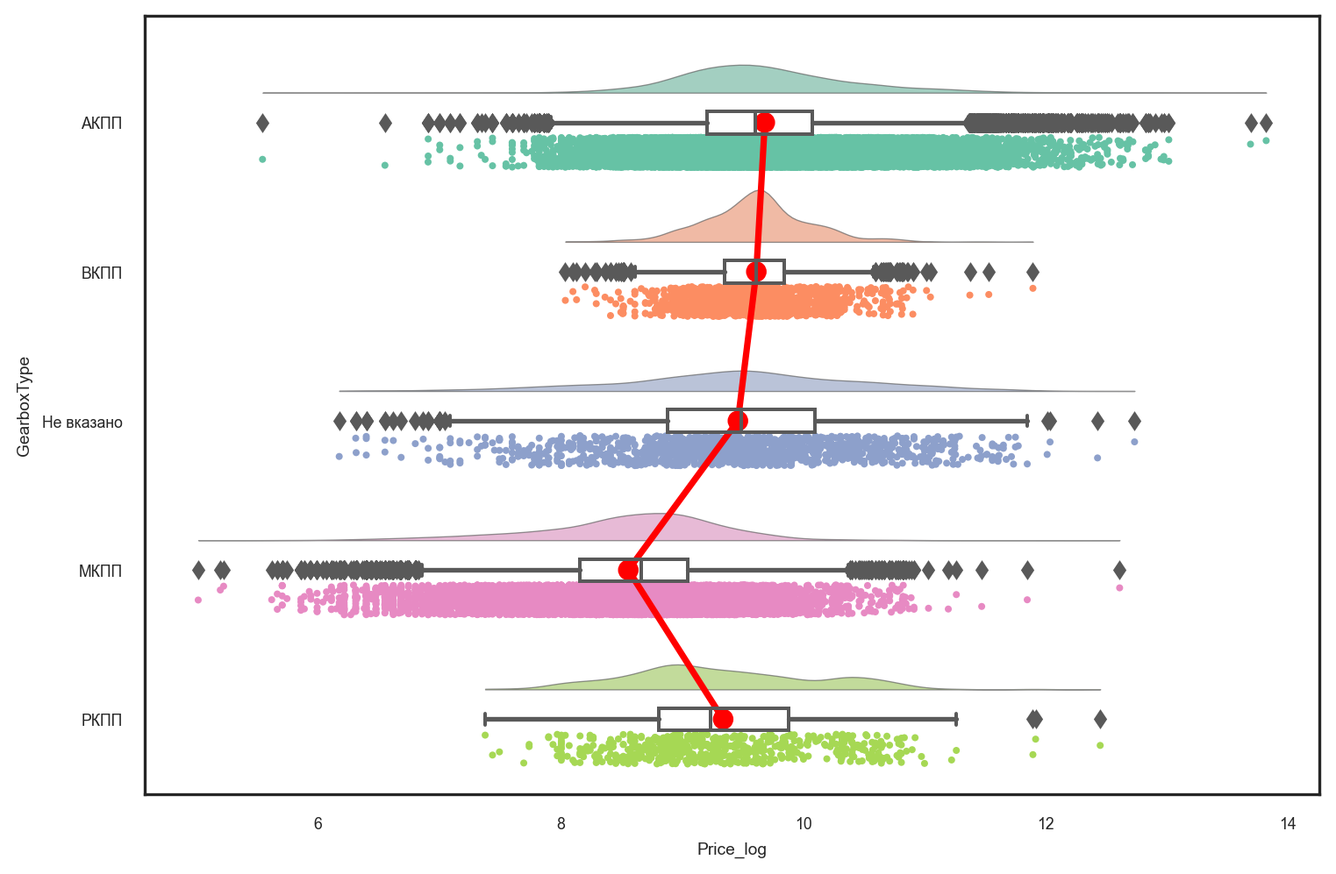
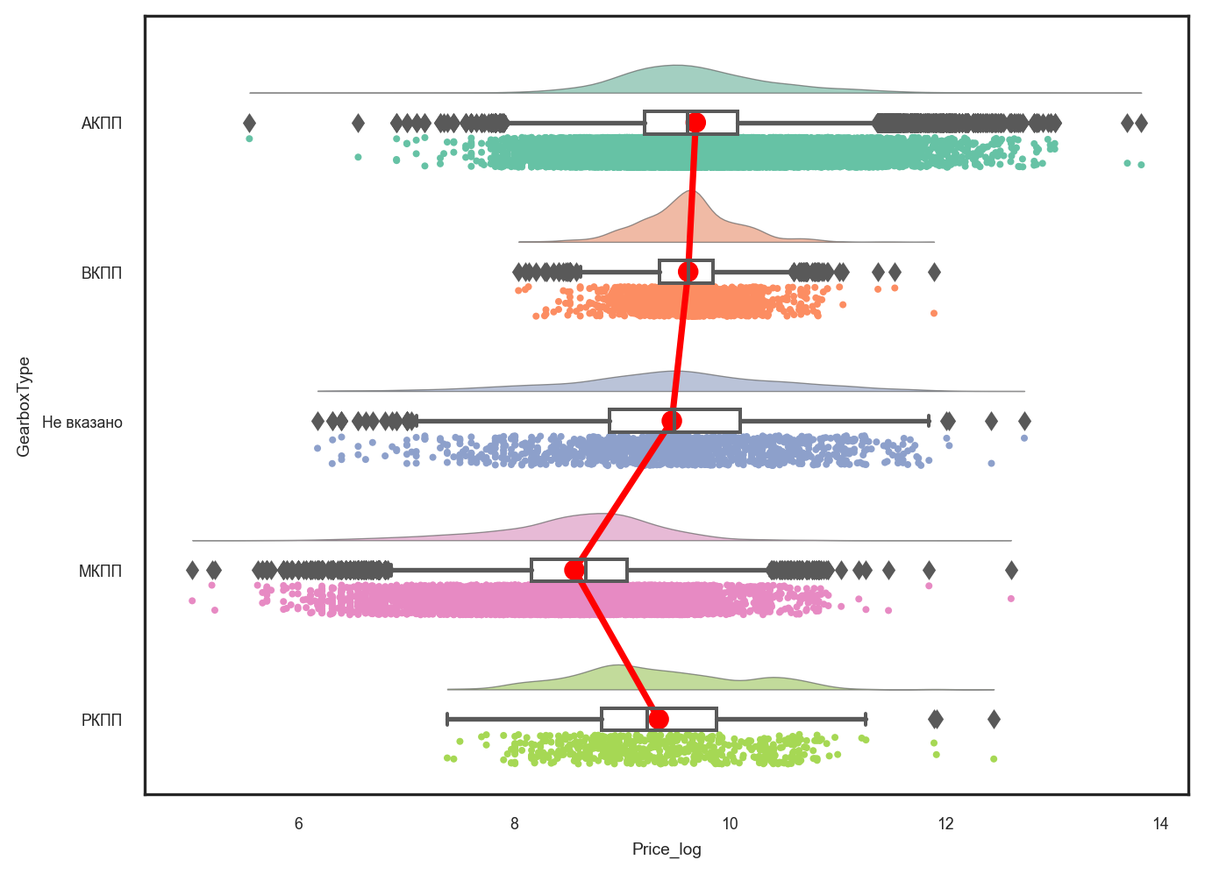
fin 68

diff --git a/_Final/_book/eda.html b/_Final/_book/eda.html
@@ -704,9 +704,9 @@ Name: Brand, dtype: int64</code></pre>
 <div class="quarto-layout-row quarto-layout-valign-top">
 <div class="cell-output cell-output-display quarto-layout-cell" style="flex-basis: 50.0%;justify-content: center;">
 
-<div>                            <div id="02513e81-33fe-4f0a-804d-47d80b3a5081" class="plotly-graph-div" style="height:525px; width:100%;"></div>            <script type="text/javascript">                require(["plotly"], function(Plotly) {                    window.PLOTLYENV=window.PLOTLYENV || {};                                    if (document.getElementById("02513e81-33fe-4f0a-804d-47d80b3a5081")) {                    Plotly.newPlot(                        "02513e81-33fe-4f0a-804d-47d80b3a5081",                        [{"alignmentgroup":"True","hovertemplate":"count=%{x}<br>Brand=%{y}<extra></extra>","legendgroup":"","marker":{"color":"#636efa","pattern":{"shape":""}},"name":"","offsetgroup":"","orientation":"h","showlegend":false,"textposition":"auto","x":[4371,4333,3863,2685,2463,2227,1805,1731,1267,1264,1134,1110,1078,1064,1058,973,894,767,762,742,646,503,497,436,423],"xaxis":"x","y":["Volkswagen","BMW","Mercedes-Benz","Audi","Toyota","Ford","Hyundai","Nissan","Mitsubishi","ВАЗ","Renault","Mazda","Skoda","Kia","Lexus","Opel","Honda","Subaru","Jeep","Chevrolet","Land Rover","Peugeot","Infiniti","Volvo","Dodge"],"yaxis":"y","type":"bar"}],                        {"template":{"data":{"histogram2dcontour":[{"type":"histogram2dcontour","colorbar":{"outlinewidth":0,"ticks":""},"colorscale":[[0.0,"#0d0887"],[0.1111111111111111,"#46039f"],[0.2222222222222222,"#7201a8"],[0.3333333333333333,"#9c179e"],[0.4444444444444444,"#bd3786"],[0.5555555555555556,"#d8576b"],[0.6666666666666666,"#ed7953"],[0.7777777777777778,"#fb9f3a"],[0.8888888888888888,"#fdca26"],[1.0,"#f0f921"]]}],"choropleth":[{"type":"choropleth","colorbar":{"outlinewidth":0,"ticks":""}}],"histogram2d":[{"type":"histogram2d","colorbar":{"outlinewidth":0,"ticks":""},"colorscale":[[0.0,"#0d0887"],[0.1111111111111111,"#46039f"],[0.2222222222222222,"#7201a8"],[0.3333333333333333,"#9c179e"],[0.4444444444444444,"#bd3786"],[0.5555555555555556,"#d8576b"],[0.6666666666666666,"#ed7953"],[0.7777777777777778,"#fb9f3a"],[0.8888888888888888,"#fdca26"],[1.0,"#f0f921"]]}],"heatmap":[{"type":"heatmap","colorbar":{"outlinewidth":0,"ticks":""},"colorscale":[[0.0,"#0d0887"],[0.1111111111111111,"#46039f"],[0.2222222222222222,"#7201a8"],[0.3333333333333333,"#9c179e"],[0.4444444444444444,"#bd3786"],[0.5555555555555556,"#d8576b"],[0.6666666666666666,"#ed7953"],[0.7777777777777778,"#fb9f3a"],[0.8888888888888888,"#fdca26"],[1.0,"#f0f921"]]}],"heatmapgl":[{"type":"heatmapgl","colorbar":{"outlinewidth":0,"ticks":""},"colorscale":[[0.0,"#0d0887"],[0.1111111111111111,"#46039f"],[0.2222222222222222,"#7201a8"],[0.3333333333333333,"#9c179e"],[0.4444444444444444,"#bd3786"],[0.5555555555555556,"#d8576b"],[0.6666666666666666,"#ed7953"],[0.7777777777777778,"#fb9f3a"],[0.8888888888888888,"#fdca26"],[1.0,"#f0f921"]]}],"contourcarpet":[{"type":"contourcarpet","colorbar":{"outlinewidth":0,"ticks":""}}],"contour":[{"type":"contour","colorbar":{"outlinewidth":0,"ticks":""},"colorscale":[[0.0,"#0d0887"],[0.1111111111111111,"#46039f"],[0.2222222222222222,"#7201a8"],[0.3333333333333333,"#9c179e"],[0.4444444444444444,"#bd3786"],[0.5555555555555556,"#d8576b"],[0.6666666666666666,"#ed7953"],[0.7777777777777778,"#fb9f3a"],[0.8888888888888888,"#fdca26"],[1.0,"#f0f921"]]}],"surface":[{"type":"surface","colorbar":{"outlinewidth":0,"ticks":""},"colorscale":[[0.0,"#0d0887"],[0.1111111111111111,"#46039f"],[0.2222222222222222,"#7201a8"],[0.3333333333333333,"#9c179e"],[0.4444444444444444,"#bd3786"],[0.5555555555555556,"#d8576b"],[0.6666666666666666,"#ed7953"],[0.7777777777777778,"#fb9f3a"],[0.8888888888888888,"#fdca26"],[1.0,"#f0f921"]]}],"mesh3d":[{"type":"mesh3d","colorbar":{"outlinewidth":0,"ticks":""}}],"scatter":[{"fillpattern":{"fillmode":"overlay","size":10,"solidity":0.2},"type":"scatter"}],"parcoords":[{"type":"parcoords","line":{"colorbar":{"outlinewidth":0,"ticks":""}}}],"scatterpolargl":[{"type":"scatterpolargl","marker":{"colorbar":{"outlinewidth":0,"ticks":""}}}],"bar":[{"error_x":{"color":"#2a3f5f"},"error_y":{"color":"#2a3f5f"},"marker":{"line":{"color":"#E5ECF6","width":0.5},"pattern":{"fillmode":"overlay","size":10,"solidity":0.2}},"type":"bar"}],"scattergeo":[{"type":"scattergeo","marker":{"colorbar":{"outlinewidth":0,"ticks":""}}}],"scatterpolar":[{"type":"scatterpolar","marker":{"colorbar":{"outlinewidth":0,"ticks":""}}}],"histogram":[{"marker":{"pattern":{"fillmode":"overlay","size":10,"solidity":0.2}},"type":"histogram"}],"scattergl":[{"type":"scattergl","marker":{"colorbar":{"outlinewidth":0,"ticks":""}}}],"scatter3d":[{"type":"scatter3d","line":{"colorbar":{"outlinewidth":0,"ticks":""}},"marker":{"colorbar":{"outlinewidth":0,"ticks":""}}}],"scattermapbox":[{"type":"scattermapbox","marker":{"colorbar":{"outlinewidth":0,"ticks":""}}}],"scatterternary":[{"type":"scatterternary","marker":{"colorbar":{"outlinewidth":0,"ticks":""}}}],"scattercarpet":[{"type":"scattercarpet","marker":{"colorbar":{"outlinewidth":0,"ticks":""}}}],"carpet":[{"aaxis":{"endlinecolor":"#2a3f5f","gridcolor":"white","linecolor":"white","minorgridcolor":"white","startlinecolor":"#2a3f5f"},"baxis":{"endlinecolor":"#2a3f5f","gridcolor":"white","linecolor":"white","minorgridcolor":"white","startlinecolor":"#2a3f5f"},"type":"carpet"}],"table":[{"cells":{"fill":{"color":"#EBF0F8"},"line":{"color":"white"}},"header":{"fill":{"color":"#C8D4E3"},"line":{"color":"white"}},"type":"table"}],"barpolar":[{"marker":{"line":{"color":"#E5ECF6","width":0.5},"pattern":{"fillmode":"overlay","size":10,"solidity":0.2}},"type":"barpolar"}],"pie":[{"automargin":true,"type":"pie"}]},"layout":{"autotypenumbers":"strict","colorway":["#636efa","#EF553B","#00cc96","#ab63fa","#FFA15A","#19d3f3","#FF6692","#B6E880","#FF97FF","#FECB52"],"font":{"color":"#2a3f5f"},"hovermode":"closest","hoverlabel":{"align":"left"},"paper_bgcolor":"white","plot_bgcolor":"#E5ECF6","polar":{"bgcolor":"#E5ECF6","angularaxis":{"gridcolor":"white","linecolor":"white","ticks":""},"radialaxis":{"gridcolor":"white","linecolor":"white","ticks":""}},"ternary":{"bgcolor":"#E5ECF6","aaxis":{"gridcolor":"white","linecolor":"white","ticks":""},"baxis":{"gridcolor":"white","linecolor":"white","ticks":""},"caxis":{"gridcolor":"white","linecolor":"white","ticks":""}},"coloraxis":{"colorbar":{"outlinewidth":0,"ticks":""}},"colorscale":{"sequential":[[0.0,"#0d0887"],[0.1111111111111111,"#46039f"],[0.2222222222222222,"#7201a8"],[0.3333333333333333,"#9c179e"],[0.4444444444444444,"#bd3786"],[0.5555555555555556,"#d8576b"],[0.6666666666666666,"#ed7953"],[0.7777777777777778,"#fb9f3a"],[0.8888888888888888,"#fdca26"],[1.0,"#f0f921"]],"sequentialminus":[[0.0,"#0d0887"],[0.1111111111111111,"#46039f"],[0.2222222222222222,"#7201a8"],[0.3333333333333333,"#9c179e"],[0.4444444444444444,"#bd3786"],[0.5555555555555556,"#d8576b"],[0.6666666666666666,"#ed7953"],[0.7777777777777778,"#fb9f3a"],[0.8888888888888888,"#fdca26"],[1.0,"#f0f921"]],"diverging":[[0,"#8e0152"],[0.1,"#c51b7d"],[0.2,"#de77ae"],[0.3,"#f1b6da"],[0.4,"#fde0ef"],[0.5,"#f7f7f7"],[0.6,"#e6f5d0"],[0.7,"#b8e186"],[0.8,"#7fbc41"],[0.9,"#4d9221"],[1,"#276419"]]},"xaxis":{"gridcolor":"white","linecolor":"white","ticks":"","title":{"standoff":15},"zerolinecolor":"white","automargin":true,"zerolinewidth":2},"yaxis":{"gridcolor":"white","linecolor":"white","ticks":"","title":{"standoff":15},"zerolinecolor":"white","automargin":true,"zerolinewidth":2},"scene":{"xaxis":{"backgroundcolor":"#E5ECF6","gridcolor":"white","linecolor":"white","showbackground":true,"ticks":"","zerolinecolor":"white","gridwidth":2},"yaxis":{"backgroundcolor":"#E5ECF6","gridcolor":"white","linecolor":"white","showbackground":true,"ticks":"","zerolinecolor":"white","gridwidth":2},"zaxis":{"backgroundcolor":"#E5ECF6","gridcolor":"white","linecolor":"white","showbackground":true,"ticks":"","zerolinecolor":"white","gridwidth":2}},"shapedefaults":{"line":{"color":"#2a3f5f"}},"annotationdefaults":{"arrowcolor":"#2a3f5f","arrowhead":0,"arrowwidth":1},"geo":{"bgcolor":"white","landcolor":"#E5ECF6","subunitcolor":"white","showland":true,"showlakes":true,"lakecolor":"white"},"title":{"x":0.05},"mapbox":{"style":"light"}}},"xaxis":{"anchor":"y","domain":[0.0,1.0],"title":{"text":"Кількість"}},"yaxis":{"anchor":"x","domain":[0.0,1.0],"title":{"text":""},"categoryorder":"total ascending"},"legend":{"tracegroupgap":0},"margin":{"t":60},"barmode":"relative","plot_bgcolor":"rgba(0,0,0,0)"},                        {"responsive": true}                    ).then(function(){
+<div>                            <div id="cee985ed-0d8a-43b0-8d17-81010e24978e" class="plotly-graph-div" style="height:525px; width:100%;"></div>            <script type="text/javascript">                require(["plotly"], function(Plotly) {                    window.PLOTLYENV=window.PLOTLYENV || {};                                    if (document.getElementById("cee985ed-0d8a-43b0-8d17-81010e24978e")) {                    Plotly.newPlot(                        "cee985ed-0d8a-43b0-8d17-81010e24978e",                        [{"alignmentgroup":"True","hovertemplate":"count=%{x}<br>Brand=%{y}<extra></extra>","legendgroup":"","marker":{"color":"#636efa","pattern":{"shape":""}},"name":"","offsetgroup":"","orientation":"h","showlegend":false,"textposition":"auto","x":[4371,4333,3863,2685,2463,2227,1805,1731,1267,1264,1134,1110,1078,1064,1058,973,894,767,762,742,646,503,497,436,423],"xaxis":"x","y":["Volkswagen","BMW","Mercedes-Benz","Audi","Toyota","Ford","Hyundai","Nissan","Mitsubishi","ВАЗ","Renault","Mazda","Skoda","Kia","Lexus","Opel","Honda","Subaru","Jeep","Chevrolet","Land Rover","Peugeot","Infiniti","Volvo","Dodge"],"yaxis":"y","type":"bar"}],                        {"template":{"data":{"histogram2dcontour":[{"type":"histogram2dcontour","colorbar":{"outlinewidth":0,"ticks":""},"colorscale":[[0.0,"#0d0887"],[0.1111111111111111,"#46039f"],[0.2222222222222222,"#7201a8"],[0.3333333333333333,"#9c179e"],[0.4444444444444444,"#bd3786"],[0.5555555555555556,"#d8576b"],[0.6666666666666666,"#ed7953"],[0.7777777777777778,"#fb9f3a"],[0.8888888888888888,"#fdca26"],[1.0,"#f0f921"]]}],"choropleth":[{"type":"choropleth","colorbar":{"outlinewidth":0,"ticks":""}}],"histogram2d":[{"type":"histogram2d","colorbar":{"outlinewidth":0,"ticks":""},"colorscale":[[0.0,"#0d0887"],[0.1111111111111111,"#46039f"],[0.2222222222222222,"#7201a8"],[0.3333333333333333,"#9c179e"],[0.4444444444444444,"#bd3786"],[0.5555555555555556,"#d8576b"],[0.6666666666666666,"#ed7953"],[0.7777777777777778,"#fb9f3a"],[0.8888888888888888,"#fdca26"],[1.0,"#f0f921"]]}],"heatmap":[{"type":"heatmap","colorbar":{"outlinewidth":0,"ticks":""},"colorscale":[[0.0,"#0d0887"],[0.1111111111111111,"#46039f"],[0.2222222222222222,"#7201a8"],[0.3333333333333333,"#9c179e"],[0.4444444444444444,"#bd3786"],[0.5555555555555556,"#d8576b"],[0.6666666666666666,"#ed7953"],[0.7777777777777778,"#fb9f3a"],[0.8888888888888888,"#fdca26"],[1.0,"#f0f921"]]}],"heatmapgl":[{"type":"heatmapgl","colorbar":{"outlinewidth":0,"ticks":""},"colorscale":[[0.0,"#0d0887"],[0.1111111111111111,"#46039f"],[0.2222222222222222,"#7201a8"],[0.3333333333333333,"#9c179e"],[0.4444444444444444,"#bd3786"],[0.5555555555555556,"#d8576b"],[0.6666666666666666,"#ed7953"],[0.7777777777777778,"#fb9f3a"],[0.8888888888888888,"#fdca26"],[1.0,"#f0f921"]]}],"contourcarpet":[{"type":"contourcarpet","colorbar":{"outlinewidth":0,"ticks":""}}],"contour":[{"type":"contour","colorbar":{"outlinewidth":0,"ticks":""},"colorscale":[[0.0,"#0d0887"],[0.1111111111111111,"#46039f"],[0.2222222222222222,"#7201a8"],[0.3333333333333333,"#9c179e"],[0.4444444444444444,"#bd3786"],[0.5555555555555556,"#d8576b"],[0.6666666666666666,"#ed7953"],[0.7777777777777778,"#fb9f3a"],[0.8888888888888888,"#fdca26"],[1.0,"#f0f921"]]}],"surface":[{"type":"surface","colorbar":{"outlinewidth":0,"ticks":""},"colorscale":[[0.0,"#0d0887"],[0.1111111111111111,"#46039f"],[0.2222222222222222,"#7201a8"],[0.3333333333333333,"#9c179e"],[0.4444444444444444,"#bd3786"],[0.5555555555555556,"#d8576b"],[0.6666666666666666,"#ed7953"],[0.7777777777777778,"#fb9f3a"],[0.8888888888888888,"#fdca26"],[1.0,"#f0f921"]]}],"mesh3d":[{"type":"mesh3d","colorbar":{"outlinewidth":0,"ticks":""}}],"scatter":[{"fillpattern":{"fillmode":"overlay","size":10,"solidity":0.2},"type":"scatter"}],"parcoords":[{"type":"parcoords","line":{"colorbar":{"outlinewidth":0,"ticks":""}}}],"scatterpolargl":[{"type":"scatterpolargl","marker":{"colorbar":{"outlinewidth":0,"ticks":""}}}],"bar":[{"error_x":{"color":"#2a3f5f"},"error_y":{"color":"#2a3f5f"},"marker":{"line":{"color":"#E5ECF6","width":0.5},"pattern":{"fillmode":"overlay","size":10,"solidity":0.2}},"type":"bar"}],"scattergeo":[{"type":"scattergeo","marker":{"colorbar":{"outlinewidth":0,"ticks":""}}}],"scatterpolar":[{"type":"scatterpolar","marker":{"colorbar":{"outlinewidth":0,"ticks":""}}}],"histogram":[{"marker":{"pattern":{"fillmode":"overlay","size":10,"solidity":0.2}},"type":"histogram"}],"scattergl":[{"type":"scattergl","marker":{"colorbar":{"outlinewidth":0,"ticks":""}}}],"scatter3d":[{"type":"scatter3d","line":{"colorbar":{"outlinewidth":0,"ticks":""}},"marker":{"colorbar":{"outlinewidth":0,"ticks":""}}}],"scattermapbox":[{"type":"scattermapbox","marker":{"colorbar":{"outlinewidth":0,"ticks":""}}}],"scatterternary":[{"type":"scatterternary","marker":{"colorbar":{"outlinewidth":0,"ticks":""}}}],"scattercarpet":[{"type":"scattercarpet","marker":{"colorbar":{"outlinewidth":0,"ticks":""}}}],"carpet":[{"aaxis":{"endlinecolor":"#2a3f5f","gridcolor":"white","linecolor":"white","minorgridcolor":"white","startlinecolor":"#2a3f5f"},"baxis":{"endlinecolor":"#2a3f5f","gridcolor":"white","linecolor":"white","minorgridcolor":"white","startlinecolor":"#2a3f5f"},"type":"carpet"}],"table":[{"cells":{"fill":{"color":"#EBF0F8"},"line":{"color":"white"}},"header":{"fill":{"color":"#C8D4E3"},"line":{"color":"white"}},"type":"table"}],"barpolar":[{"marker":{"line":{"color":"#E5ECF6","width":0.5},"pattern":{"fillmode":"overlay","size":10,"solidity":0.2}},"type":"barpolar"}],"pie":[{"automargin":true,"type":"pie"}]},"layout":{"autotypenumbers":"strict","colorway":["#636efa","#EF553B","#00cc96","#ab63fa","#FFA15A","#19d3f3","#FF6692","#B6E880","#FF97FF","#FECB52"],"font":{"color":"#2a3f5f"},"hovermode":"closest","hoverlabel":{"align":"left"},"paper_bgcolor":"white","plot_bgcolor":"#E5ECF6","polar":{"bgcolor":"#E5ECF6","angularaxis":{"gridcolor":"white","linecolor":"white","ticks":""},"radialaxis":{"gridcolor":"white","linecolor":"white","ticks":""}},"ternary":{"bgcolor":"#E5ECF6","aaxis":{"gridcolor":"white","linecolor":"white","ticks":""},"baxis":{"gridcolor":"white","linecolor":"white","ticks":""},"caxis":{"gridcolor":"white","linecolor":"white","ticks":""}},"coloraxis":{"colorbar":{"outlinewidth":0,"ticks":""}},"colorscale":{"sequential":[[0.0,"#0d0887"],[0.1111111111111111,"#46039f"],[0.2222222222222222,"#7201a8"],[0.3333333333333333,"#9c179e"],[0.4444444444444444,"#bd3786"],[0.5555555555555556,"#d8576b"],[0.6666666666666666,"#ed7953"],[0.7777777777777778,"#fb9f3a"],[0.8888888888888888,"#fdca26"],[1.0,"#f0f921"]],"sequentialminus":[[0.0,"#0d0887"],[0.1111111111111111,"#46039f"],[0.2222222222222222,"#7201a8"],[0.3333333333333333,"#9c179e"],[0.4444444444444444,"#bd3786"],[0.5555555555555556,"#d8576b"],[0.6666666666666666,"#ed7953"],[0.7777777777777778,"#fb9f3a"],[0.8888888888888888,"#fdca26"],[1.0,"#f0f921"]],"diverging":[[0,"#8e0152"],[0.1,"#c51b7d"],[0.2,"#de77ae"],[0.3,"#f1b6da"],[0.4,"#fde0ef"],[0.5,"#f7f7f7"],[0.6,"#e6f5d0"],[0.7,"#b8e186"],[0.8,"#7fbc41"],[0.9,"#4d9221"],[1,"#276419"]]},"xaxis":{"gridcolor":"white","linecolor":"white","ticks":"","title":{"standoff":15},"zerolinecolor":"white","automargin":true,"zerolinewidth":2},"yaxis":{"gridcolor":"white","linecolor":"white","ticks":"","title":{"standoff":15},"zerolinecolor":"white","automargin":true,"zerolinewidth":2},"scene":{"xaxis":{"backgroundcolor":"#E5ECF6","gridcolor":"white","linecolor":"white","showbackground":true,"ticks":"","zerolinecolor":"white","gridwidth":2},"yaxis":{"backgroundcolor":"#E5ECF6","gridcolor":"white","linecolor":"white","showbackground":true,"ticks":"","zerolinecolor":"white","gridwidth":2},"zaxis":{"backgroundcolor":"#E5ECF6","gridcolor":"white","linecolor":"white","showbackground":true,"ticks":"","zerolinecolor":"white","gridwidth":2}},"shapedefaults":{"line":{"color":"#2a3f5f"}},"annotationdefaults":{"arrowcolor":"#2a3f5f","arrowhead":0,"arrowwidth":1},"geo":{"bgcolor":"white","landcolor":"#E5ECF6","subunitcolor":"white","showland":true,"showlakes":true,"lakecolor":"white"},"title":{"x":0.05},"mapbox":{"style":"light"}}},"xaxis":{"anchor":"y","domain":[0.0,1.0],"title":{"text":"Кількість"}},"yaxis":{"anchor":"x","domain":[0.0,1.0],"title":{"text":""},"categoryorder":"total ascending"},"legend":{"tracegroupgap":0},"margin":{"t":60},"barmode":"relative","plot_bgcolor":"rgba(0,0,0,0)"},                        {"responsive": true}                    ).then(function(){
                             
-var gd = document.getElementById('02513e81-33fe-4f0a-804d-47d80b3a5081');
+var gd = document.getElementById('cee985ed-0d8a-43b0-8d17-81010e24978e');
 var x = new MutationObserver(function (mutations, observer) {{
         var display = window.getComputedStyle(gd).display;
         if (!display || display === 'none') {{
@@ -732,9 +732,9 @@ if (outputEl) {{
 </div>
 <div class="cell-output cell-output-display quarto-layout-cell" style="flex-basis: 50.0%;justify-content: center;">
 
-<div>                            <div id="59be9fb7-6f2e-4376-9b3c-db8e133663b1" class="plotly-graph-div" style="height:525px; width:100%;"></div>            <script type="text/javascript">                require(["plotly"], function(Plotly) {                    window.PLOTLYENV=window.PLOTLYENV || {};                                    if (document.getElementById("59be9fb7-6f2e-4376-9b3c-db8e133663b1")) {                    Plotly.newPlot(                        "59be9fb7-6f2e-4376-9b3c-db8e133663b1",                        [{"alignmentgroup":"True","hovertemplate":"count=%{x}<br>Brand=%{y}<extra></extra>","legendgroup":"","marker":{"color":"#636efa","pattern":{"shape":""}},"name":"","offsetgroup":"","orientation":"h","showlegend":false,"textposition":"auto","x":[1,1,1,1,1,1,1,1,1,1,1,1,1,1,1,1,1,1,1,1,1,1,1,1,1,1,2,2,2,2,2,2,2,2,2,3,3,3,3,4,4,4,4,5,5,5,6,6,6],"xaxis":"x","y":["DAF","Xinkai","Bristol","Саморобний","Hongqi","Huabei","Asia","Rivian","Mercury","Fisker","TATA","Iran","Barkas","Austin","Wanderer","Baw","Mobility","Daechang","Zotye","FSO","BMW-Alpina","Wuling","Groz","McLaren","Marshell","Anaig","Chana","Saipa","Samand","Abarth","Ferrari","СМЗ","Aro","Pontiac","Gonow","Rover","DS","Rolls-Royce","BAIC","Ретро","Weltmeister","Lifan","Dadi","Iveco","Ravon","Lamborghini","Aston Martin","ZX","Lancia"],"yaxis":"y","type":"bar"}],                        {"template":{"data":{"histogram2dcontour":[{"type":"histogram2dcontour","colorbar":{"outlinewidth":0,"ticks":""},"colorscale":[[0.0,"#0d0887"],[0.1111111111111111,"#46039f"],[0.2222222222222222,"#7201a8"],[0.3333333333333333,"#9c179e"],[0.4444444444444444,"#bd3786"],[0.5555555555555556,"#d8576b"],[0.6666666666666666,"#ed7953"],[0.7777777777777778,"#fb9f3a"],[0.8888888888888888,"#fdca26"],[1.0,"#f0f921"]]}],"choropleth":[{"type":"choropleth","colorbar":{"outlinewidth":0,"ticks":""}}],"histogram2d":[{"type":"histogram2d","colorbar":{"outlinewidth":0,"ticks":""},"colorscale":[[0.0,"#0d0887"],[0.1111111111111111,"#46039f"],[0.2222222222222222,"#7201a8"],[0.3333333333333333,"#9c179e"],[0.4444444444444444,"#bd3786"],[0.5555555555555556,"#d8576b"],[0.6666666666666666,"#ed7953"],[0.7777777777777778,"#fb9f3a"],[0.8888888888888888,"#fdca26"],[1.0,"#f0f921"]]}],"heatmap":[{"type":"heatmap","colorbar":{"outlinewidth":0,"ticks":""},"colorscale":[[0.0,"#0d0887"],[0.1111111111111111,"#46039f"],[0.2222222222222222,"#7201a8"],[0.3333333333333333,"#9c179e"],[0.4444444444444444,"#bd3786"],[0.5555555555555556,"#d8576b"],[0.6666666666666666,"#ed7953"],[0.7777777777777778,"#fb9f3a"],[0.8888888888888888,"#fdca26"],[1.0,"#f0f921"]]}],"heatmapgl":[{"type":"heatmapgl","colorbar":{"outlinewidth":0,"ticks":""},"colorscale":[[0.0,"#0d0887"],[0.1111111111111111,"#46039f"],[0.2222222222222222,"#7201a8"],[0.3333333333333333,"#9c179e"],[0.4444444444444444,"#bd3786"],[0.5555555555555556,"#d8576b"],[0.6666666666666666,"#ed7953"],[0.7777777777777778,"#fb9f3a"],[0.8888888888888888,"#fdca26"],[1.0,"#f0f921"]]}],"contourcarpet":[{"type":"contourcarpet","colorbar":{"outlinewidth":0,"ticks":""}}],"contour":[{"type":"contour","colorbar":{"outlinewidth":0,"ticks":""},"colorscale":[[0.0,"#0d0887"],[0.1111111111111111,"#46039f"],[0.2222222222222222,"#7201a8"],[0.3333333333333333,"#9c179e"],[0.4444444444444444,"#bd3786"],[0.5555555555555556,"#d8576b"],[0.6666666666666666,"#ed7953"],[0.7777777777777778,"#fb9f3a"],[0.8888888888888888,"#fdca26"],[1.0,"#f0f921"]]}],"surface":[{"type":"surface","colorbar":{"outlinewidth":0,"ticks":""},"colorscale":[[0.0,"#0d0887"],[0.1111111111111111,"#46039f"],[0.2222222222222222,"#7201a8"],[0.3333333333333333,"#9c179e"],[0.4444444444444444,"#bd3786"],[0.5555555555555556,"#d8576b"],[0.6666666666666666,"#ed7953"],[0.7777777777777778,"#fb9f3a"],[0.8888888888888888,"#fdca26"],[1.0,"#f0f921"]]}],"mesh3d":[{"type":"mesh3d","colorbar":{"outlinewidth":0,"ticks":""}}],"scatter":[{"fillpattern":{"fillmode":"overlay","size":10,"solidity":0.2},"type":"scatter"}],"parcoords":[{"type":"parcoords","line":{"colorbar":{"outlinewidth":0,"ticks":""}}}],"scatterpolargl":[{"type":"scatterpolargl","marker":{"colorbar":{"outlinewidth":0,"ticks":""}}}],"bar":[{"error_x":{"color":"#2a3f5f"},"error_y":{"color":"#2a3f5f"},"marker":{"line":{"color":"#E5ECF6","width":0.5},"pattern":{"fillmode":"overlay","size":10,"solidity":0.2}},"type":"bar"}],"scattergeo":[{"type":"scattergeo","marker":{"colorbar":{"outlinewidth":0,"ticks":""}}}],"scatterpolar":[{"type":"scatterpolar","marker":{"colorbar":{"outlinewidth":0,"ticks":""}}}],"histogram":[{"marker":{"pattern":{"fillmode":"overlay","size":10,"solidity":0.2}},"type":"histogram"}],"scattergl":[{"type":"scattergl","marker":{"colorbar":{"outlinewidth":0,"ticks":""}}}],"scatter3d":[{"type":"scatter3d","line":{"colorbar":{"outlinewidth":0,"ticks":""}},"marker":{"colorbar":{"outlinewidth":0,"ticks":""}}}],"scattermapbox":[{"type":"scattermapbox","marker":{"colorbar":{"outlinewidth":0,"ticks":""}}}],"scatterternary":[{"type":"scatterternary","marker":{"colorbar":{"outlinewidth":0,"ticks":""}}}],"scattercarpet":[{"type":"scattercarpet","marker":{"colorbar":{"outlinewidth":0,"ticks":""}}}],"carpet":[{"aaxis":{"endlinecolor":"#2a3f5f","gridcolor":"white","linecolor":"white","minorgridcolor":"white","startlinecolor":"#2a3f5f"},"baxis":{"endlinecolor":"#2a3f5f","gridcolor":"white","linecolor":"white","minorgridcolor":"white","startlinecolor":"#2a3f5f"},"type":"carpet"}],"table":[{"cells":{"fill":{"color":"#EBF0F8"},"line":{"color":"white"}},"header":{"fill":{"color":"#C8D4E3"},"line":{"color":"white"}},"type":"table"}],"barpolar":[{"marker":{"line":{"color":"#E5ECF6","width":0.5},"pattern":{"fillmode":"overlay","size":10,"solidity":0.2}},"type":"barpolar"}],"pie":[{"automargin":true,"type":"pie"}]},"layout":{"autotypenumbers":"strict","colorway":["#636efa","#EF553B","#00cc96","#ab63fa","#FFA15A","#19d3f3","#FF6692","#B6E880","#FF97FF","#FECB52"],"font":{"color":"#2a3f5f"},"hovermode":"closest","hoverlabel":{"align":"left"},"paper_bgcolor":"white","plot_bgcolor":"#E5ECF6","polar":{"bgcolor":"#E5ECF6","angularaxis":{"gridcolor":"white","linecolor":"white","ticks":""},"radialaxis":{"gridcolor":"white","linecolor":"white","ticks":""}},"ternary":{"bgcolor":"#E5ECF6","aaxis":{"gridcolor":"white","linecolor":"white","ticks":""},"baxis":{"gridcolor":"white","linecolor":"white","ticks":""},"caxis":{"gridcolor":"white","linecolor":"white","ticks":""}},"coloraxis":{"colorbar":{"outlinewidth":0,"ticks":""}},"colorscale":{"sequential":[[0.0,"#0d0887"],[0.1111111111111111,"#46039f"],[0.2222222222222222,"#7201a8"],[0.3333333333333333,"#9c179e"],[0.4444444444444444,"#bd3786"],[0.5555555555555556,"#d8576b"],[0.6666666666666666,"#ed7953"],[0.7777777777777778,"#fb9f3a"],[0.8888888888888888,"#fdca26"],[1.0,"#f0f921"]],"sequentialminus":[[0.0,"#0d0887"],[0.1111111111111111,"#46039f"],[0.2222222222222222,"#7201a8"],[0.3333333333333333,"#9c179e"],[0.4444444444444444,"#bd3786"],[0.5555555555555556,"#d8576b"],[0.6666666666666666,"#ed7953"],[0.7777777777777778,"#fb9f3a"],[0.8888888888888888,"#fdca26"],[1.0,"#f0f921"]],"diverging":[[0,"#8e0152"],[0.1,"#c51b7d"],[0.2,"#de77ae"],[0.3,"#f1b6da"],[0.4,"#fde0ef"],[0.5,"#f7f7f7"],[0.6,"#e6f5d0"],[0.7,"#b8e186"],[0.8,"#7fbc41"],[0.9,"#4d9221"],[1,"#276419"]]},"xaxis":{"gridcolor":"white","linecolor":"white","ticks":"","title":{"standoff":15},"zerolinecolor":"white","automargin":true,"zerolinewidth":2},"yaxis":{"gridcolor":"white","linecolor":"white","ticks":"","title":{"standoff":15},"zerolinecolor":"white","automargin":true,"zerolinewidth":2},"scene":{"xaxis":{"backgroundcolor":"#E5ECF6","gridcolor":"white","linecolor":"white","showbackground":true,"ticks":"","zerolinecolor":"white","gridwidth":2},"yaxis":{"backgroundcolor":"#E5ECF6","gridcolor":"white","linecolor":"white","showbackground":true,"ticks":"","zerolinecolor":"white","gridwidth":2},"zaxis":{"backgroundcolor":"#E5ECF6","gridcolor":"white","linecolor":"white","showbackground":true,"ticks":"","zerolinecolor":"white","gridwidth":2}},"shapedefaults":{"line":{"color":"#2a3f5f"}},"annotationdefaults":{"arrowcolor":"#2a3f5f","arrowhead":0,"arrowwidth":1},"geo":{"bgcolor":"white","landcolor":"#E5ECF6","subunitcolor":"white","showland":true,"showlakes":true,"lakecolor":"white"},"title":{"x":0.05},"mapbox":{"style":"light"}}},"xaxis":{"anchor":"y","domain":[0.0,1.0],"title":{"text":"Кількість"}},"yaxis":{"anchor":"x","domain":[0.0,1.0],"title":{"text":""},"categoryorder":"total descending"},"legend":{"tracegroupgap":0},"margin":{"t":60},"barmode":"relative","plot_bgcolor":"rgba(0,0,0,0)"},                        {"responsive": true}                    ).then(function(){
+<div>                            <div id="d516c720-3197-4e58-857f-d9a1635399c2" class="plotly-graph-div" style="height:525px; width:100%;"></div>            <script type="text/javascript">                require(["plotly"], function(Plotly) {                    window.PLOTLYENV=window.PLOTLYENV || {};                                    if (document.getElementById("d516c720-3197-4e58-857f-d9a1635399c2")) {                    Plotly.newPlot(                        "d516c720-3197-4e58-857f-d9a1635399c2",                        [{"alignmentgroup":"True","hovertemplate":"count=%{x}<br>Brand=%{y}<extra></extra>","legendgroup":"","marker":{"color":"#636efa","pattern":{"shape":""}},"name":"","offsetgroup":"","orientation":"h","showlegend":false,"textposition":"auto","x":[1,1,1,1,1,1,1,1,1,1,1,1,1,1,1,1,1,1,1,1,1,1,1,1,1,1,2,2,2,2,2,2,2,2,2,3,3,3,3,4,4,4,4,5,5,5,6,6,6],"xaxis":"x","y":["DAF","Xinkai","Bristol","Саморобний","Hongqi","Huabei","Asia","Rivian","Mercury","Fisker","TATA","Iran","Barkas","Austin","Wanderer","Baw","Mobility","Daechang","Zotye","FSO","BMW-Alpina","Wuling","Groz","McLaren","Marshell","Anaig","Chana","Saipa","Samand","Abarth","Ferrari","СМЗ","Aro","Pontiac","Gonow","Rover","DS","Rolls-Royce","BAIC","Ретро","Weltmeister","Lifan","Dadi","Iveco","Ravon","Lamborghini","Aston Martin","ZX","Lancia"],"yaxis":"y","type":"bar"}],                        {"template":{"data":{"histogram2dcontour":[{"type":"histogram2dcontour","colorbar":{"outlinewidth":0,"ticks":""},"colorscale":[[0.0,"#0d0887"],[0.1111111111111111,"#46039f"],[0.2222222222222222,"#7201a8"],[0.3333333333333333,"#9c179e"],[0.4444444444444444,"#bd3786"],[0.5555555555555556,"#d8576b"],[0.6666666666666666,"#ed7953"],[0.7777777777777778,"#fb9f3a"],[0.8888888888888888,"#fdca26"],[1.0,"#f0f921"]]}],"choropleth":[{"type":"choropleth","colorbar":{"outlinewidth":0,"ticks":""}}],"histogram2d":[{"type":"histogram2d","colorbar":{"outlinewidth":0,"ticks":""},"colorscale":[[0.0,"#0d0887"],[0.1111111111111111,"#46039f"],[0.2222222222222222,"#7201a8"],[0.3333333333333333,"#9c179e"],[0.4444444444444444,"#bd3786"],[0.5555555555555556,"#d8576b"],[0.6666666666666666,"#ed7953"],[0.7777777777777778,"#fb9f3a"],[0.8888888888888888,"#fdca26"],[1.0,"#f0f921"]]}],"heatmap":[{"type":"heatmap","colorbar":{"outlinewidth":0,"ticks":""},"colorscale":[[0.0,"#0d0887"],[0.1111111111111111,"#46039f"],[0.2222222222222222,"#7201a8"],[0.3333333333333333,"#9c179e"],[0.4444444444444444,"#bd3786"],[0.5555555555555556,"#d8576b"],[0.6666666666666666,"#ed7953"],[0.7777777777777778,"#fb9f3a"],[0.8888888888888888,"#fdca26"],[1.0,"#f0f921"]]}],"heatmapgl":[{"type":"heatmapgl","colorbar":{"outlinewidth":0,"ticks":""},"colorscale":[[0.0,"#0d0887"],[0.1111111111111111,"#46039f"],[0.2222222222222222,"#7201a8"],[0.3333333333333333,"#9c179e"],[0.4444444444444444,"#bd3786"],[0.5555555555555556,"#d8576b"],[0.6666666666666666,"#ed7953"],[0.7777777777777778,"#fb9f3a"],[0.8888888888888888,"#fdca26"],[1.0,"#f0f921"]]}],"contourcarpet":[{"type":"contourcarpet","colorbar":{"outlinewidth":0,"ticks":""}}],"contour":[{"type":"contour","colorbar":{"outlinewidth":0,"ticks":""},"colorscale":[[0.0,"#0d0887"],[0.1111111111111111,"#46039f"],[0.2222222222222222,"#7201a8"],[0.3333333333333333,"#9c179e"],[0.4444444444444444,"#bd3786"],[0.5555555555555556,"#d8576b"],[0.6666666666666666,"#ed7953"],[0.7777777777777778,"#fb9f3a"],[0.8888888888888888,"#fdca26"],[1.0,"#f0f921"]]}],"surface":[{"type":"surface","colorbar":{"outlinewidth":0,"ticks":""},"colorscale":[[0.0,"#0d0887"],[0.1111111111111111,"#46039f"],[0.2222222222222222,"#7201a8"],[0.3333333333333333,"#9c179e"],[0.4444444444444444,"#bd3786"],[0.5555555555555556,"#d8576b"],[0.6666666666666666,"#ed7953"],[0.7777777777777778,"#fb9f3a"],[0.8888888888888888,"#fdca26"],[1.0,"#f0f921"]]}],"mesh3d":[{"type":"mesh3d","colorbar":{"outlinewidth":0,"ticks":""}}],"scatter":[{"fillpattern":{"fillmode":"overlay","size":10,"solidity":0.2},"type":"scatter"}],"parcoords":[{"type":"parcoords","line":{"colorbar":{"outlinewidth":0,"ticks":""}}}],"scatterpolargl":[{"type":"scatterpolargl","marker":{"colorbar":{"outlinewidth":0,"ticks":""}}}],"bar":[{"error_x":{"color":"#2a3f5f"},"error_y":{"color":"#2a3f5f"},"marker":{"line":{"color":"#E5ECF6","width":0.5},"pattern":{"fillmode":"overlay","size":10,"solidity":0.2}},"type":"bar"}],"scattergeo":[{"type":"scattergeo","marker":{"colorbar":{"outlinewidth":0,"ticks":""}}}],"scatterpolar":[{"type":"scatterpolar","marker":{"colorbar":{"outlinewidth":0,"ticks":""}}}],"histogram":[{"marker":{"pattern":{"fillmode":"overlay","size":10,"solidity":0.2}},"type":"histogram"}],"scattergl":[{"type":"scattergl","marker":{"colorbar":{"outlinewidth":0,"ticks":""}}}],"scatter3d":[{"type":"scatter3d","line":{"colorbar":{"outlinewidth":0,"ticks":""}},"marker":{"colorbar":{"outlinewidth":0,"ticks":""}}}],"scattermapbox":[{"type":"scattermapbox","marker":{"colorbar":{"outlinewidth":0,"ticks":""}}}],"scatterternary":[{"type":"scatterternary","marker":{"colorbar":{"outlinewidth":0,"ticks":""}}}],"scattercarpet":[{"type":"scattercarpet","marker":{"colorbar":{"outlinewidth":0,"ticks":""}}}],"carpet":[{"aaxis":{"endlinecolor":"#2a3f5f","gridcolor":"white","linecolor":"white","minorgridcolor":"white","startlinecolor":"#2a3f5f"},"baxis":{"endlinecolor":"#2a3f5f","gridcolor":"white","linecolor":"white","minorgridcolor":"white","startlinecolor":"#2a3f5f"},"type":"carpet"}],"table":[{"cells":{"fill":{"color":"#EBF0F8"},"line":{"color":"white"}},"header":{"fill":{"color":"#C8D4E3"},"line":{"color":"white"}},"type":"table"}],"barpolar":[{"marker":{"line":{"color":"#E5ECF6","width":0.5},"pattern":{"fillmode":"overlay","size":10,"solidity":0.2}},"type":"barpolar"}],"pie":[{"automargin":true,"type":"pie"}]},"layout":{"autotypenumbers":"strict","colorway":["#636efa","#EF553B","#00cc96","#ab63fa","#FFA15A","#19d3f3","#FF6692","#B6E880","#FF97FF","#FECB52"],"font":{"color":"#2a3f5f"},"hovermode":"closest","hoverlabel":{"align":"left"},"paper_bgcolor":"white","plot_bgcolor":"#E5ECF6","polar":{"bgcolor":"#E5ECF6","angularaxis":{"gridcolor":"white","linecolor":"white","ticks":""},"radialaxis":{"gridcolor":"white","linecolor":"white","ticks":""}},"ternary":{"bgcolor":"#E5ECF6","aaxis":{"gridcolor":"white","linecolor":"white","ticks":""},"baxis":{"gridcolor":"white","linecolor":"white","ticks":""},"caxis":{"gridcolor":"white","linecolor":"white","ticks":""}},"coloraxis":{"colorbar":{"outlinewidth":0,"ticks":""}},"colorscale":{"sequential":[[0.0,"#0d0887"],[0.1111111111111111,"#46039f"],[0.2222222222222222,"#7201a8"],[0.3333333333333333,"#9c179e"],[0.4444444444444444,"#bd3786"],[0.5555555555555556,"#d8576b"],[0.6666666666666666,"#ed7953"],[0.7777777777777778,"#fb9f3a"],[0.8888888888888888,"#fdca26"],[1.0,"#f0f921"]],"sequentialminus":[[0.0,"#0d0887"],[0.1111111111111111,"#46039f"],[0.2222222222222222,"#7201a8"],[0.3333333333333333,"#9c179e"],[0.4444444444444444,"#bd3786"],[0.5555555555555556,"#d8576b"],[0.6666666666666666,"#ed7953"],[0.7777777777777778,"#fb9f3a"],[0.8888888888888888,"#fdca26"],[1.0,"#f0f921"]],"diverging":[[0,"#8e0152"],[0.1,"#c51b7d"],[0.2,"#de77ae"],[0.3,"#f1b6da"],[0.4,"#fde0ef"],[0.5,"#f7f7f7"],[0.6,"#e6f5d0"],[0.7,"#b8e186"],[0.8,"#7fbc41"],[0.9,"#4d9221"],[1,"#276419"]]},"xaxis":{"gridcolor":"white","linecolor":"white","ticks":"","title":{"standoff":15},"zerolinecolor":"white","automargin":true,"zerolinewidth":2},"yaxis":{"gridcolor":"white","linecolor":"white","ticks":"","title":{"standoff":15},"zerolinecolor":"white","automargin":true,"zerolinewidth":2},"scene":{"xaxis":{"backgroundcolor":"#E5ECF6","gridcolor":"white","linecolor":"white","showbackground":true,"ticks":"","zerolinecolor":"white","gridwidth":2},"yaxis":{"backgroundcolor":"#E5ECF6","gridcolor":"white","linecolor":"white","showbackground":true,"ticks":"","zerolinecolor":"white","gridwidth":2},"zaxis":{"backgroundcolor":"#E5ECF6","gridcolor":"white","linecolor":"white","showbackground":true,"ticks":"","zerolinecolor":"white","gridwidth":2}},"shapedefaults":{"line":{"color":"#2a3f5f"}},"annotationdefaults":{"arrowcolor":"#2a3f5f","arrowhead":0,"arrowwidth":1},"geo":{"bgcolor":"white","landcolor":"#E5ECF6","subunitcolor":"white","showland":true,"showlakes":true,"lakecolor":"white"},"title":{"x":0.05},"mapbox":{"style":"light"}}},"xaxis":{"anchor":"y","domain":[0.0,1.0],"title":{"text":"Кількість"}},"yaxis":{"anchor":"x","domain":[0.0,1.0],"title":{"text":""},"categoryorder":"total descending"},"legend":{"tracegroupgap":0},"margin":{"t":60},"barmode":"relative","plot_bgcolor":"rgba(0,0,0,0)"},                        {"responsive": true}                    ).then(function(){
                             
-var gd = document.getElementById('59be9fb7-6f2e-4376-9b3c-db8e133663b1');
+var gd = document.getElementById('d516c720-3197-4e58-857f-d9a1635399c2');
 var x = new MutationObserver(function (mutations, observer) {{
         var display = window.getComputedStyle(gd).display;
         if (!display || display === 'none') {{
@@ -863,22 +863,24 @@ if (outputEl) {{
 </div>
 <div class="cell" data-execution_count="16">
 <div class="sourceCode cell-code" id="cb20"><pre class="sourceCode python code-with-copy"><code class="sourceCode python"><span id="cb20-1"><a href="#cb20-1" aria-hidden="true" tabindex="-1"></a>dx <span class="op">=</span> <span class="st">"GearboxType"</span><span class="op">;</span> dy <span class="op">=</span> <span class="st">"Price_log"</span><span class="op">;</span> dhue <span class="op">=</span> <span class="st">"GearboxType"</span><span class="op">;</span> pal <span class="op">=</span> <span class="st">"Set2"</span><span class="op">;</span> sigma <span class="op">=</span> <span class="fl">0.2</span><span class="op">;</span> ort <span class="op">=</span> <span class="st">"h"</span></span>
-<span id="cb20-2"><a href="#cb20-2" aria-hidden="true" tabindex="-1"></a>f, ax <span class="op">=</span> plt.subplots(figsize<span class="op">=</span>(<span class="dv">9</span>, <span class="dv">6</span>))</span>
+<span id="cb20-2"><a href="#cb20-2" aria-hidden="true" tabindex="-1"></a>f, ax <span class="op">=</span> plt.subplots(figsize<span class="op">=</span>(<span class="dv">8</span>, <span class="dv">6</span>))</span>
 <span id="cb20-3"><a href="#cb20-3" aria-hidden="true" tabindex="-1"></a></span>
 <span id="cb20-4"><a href="#cb20-4" aria-hidden="true" tabindex="-1"></a>ax<span class="op">=</span>pt.RainCloud(x <span class="op">=</span> dx, y <span class="op">=</span> dy, data <span class="op">=</span> df, bw <span class="op">=</span> sigma, width_viol <span class="op">=</span> <span class="fl">.7</span>,</span>
-<span id="cb20-5"><a href="#cb20-5" aria-hidden="true" tabindex="-1"></a>                ax <span class="op">=</span> ax, orient <span class="op">=</span> ort , alpha <span class="op">=</span> <span class="fl">.65</span>, linewidth<span class="op">=</span><span class="fl">0.5</span>, dodge <span class="op">=</span> <span class="va">True</span>, pointplot <span class="op">=</span> <span class="va">True</span>, move <span class="op">=</span> <span class="fl">.2</span>)</span></code><button title="Копіювати" class="code-copy-button"><i class="bi"></i></button></pre></div>
+<span id="cb20-5"><a href="#cb20-5" aria-hidden="true" tabindex="-1"></a>                ax <span class="op">=</span> ax, orient <span class="op">=</span> ort , alpha <span class="op">=</span> <span class="fl">.65</span>, linewidth<span class="op">=</span><span class="fl">0.5</span>, </span>
+<span id="cb20-6"><a href="#cb20-6" aria-hidden="true" tabindex="-1"></a>                dodge <span class="op">=</span> <span class="va">True</span>, pointplot <span class="op">=</span> <span class="va">True</span>, move <span class="op">=</span> <span class="fl">.2</span>)</span></code><button title="Копіювати" class="code-copy-button"><i class="bi"></i></button></pre></div>
 <div class="cell-output cell-output-display">
-<p><img src="eda_files/figure-html/cell-17-output-1.png" width="762" height="499"></p>
+<p><img src="eda_files/figure-html/cell-17-output-1.png" width="687" height="499"></p>
 </div>
 </div>
 <div class="cell" data-execution_count="17">
 <div class="sourceCode cell-code" id="cb21"><pre class="sourceCode python code-with-copy"><code class="sourceCode python"><span id="cb21-1"><a href="#cb21-1" aria-hidden="true" tabindex="-1"></a>labels<span class="op">=</span>[y <span class="cf">if</span> y<span class="op">%</span><span class="dv">5</span><span class="op">==</span><span class="dv">0</span> <span class="cf">else</span> <span class="va">None</span> <span class="cf">for</span> y <span class="kw">in</span> <span class="bu">list</span>(df.Age.unique())]</span>
-<span id="cb21-2"><a href="#cb21-2" aria-hidden="true" tabindex="-1"></a>fig, axes <span class="op">=</span> joypy.joyplot(df, by<span class="op">=</span><span class="st">"Age"</span>, column<span class="op">=</span><span class="st">"Price_log"</span>, labels<span class="op">=</span>labels, range_style<span class="op">=</span><span class="st">'own'</span>, </span>
-<span id="cb21-3"><a href="#cb21-3" aria-hidden="true" tabindex="-1"></a>                          grid<span class="op">=</span><span class="st">"y"</span>, linewidth<span class="op">=</span><span class="dv">1</span>, legend<span class="op">=</span><span class="va">False</span>, fade<span class="op">=</span><span class="va">True</span>, figsize<span class="op">=</span>(<span class="dv">6</span>,<span class="dv">5</span>),</span>
-<span id="cb21-4"><a href="#cb21-4" aria-hidden="true" tabindex="-1"></a>                          title<span class="op">=</span><span class="st">"Вартість автомобілів по рокам</span><span class="ch">\n</span><span class="st">(ln(Price))"</span>,</span>
-<span id="cb21-5"><a href="#cb21-5" aria-hidden="true" tabindex="-1"></a>                          kind<span class="op">=</span><span class="st">"counts"</span>, bins<span class="op">=</span><span class="dv">50</span>)</span></code><button title="Копіювати" class="code-copy-button"><i class="bi"></i></button></pre></div>
+<span id="cb21-2"><a href="#cb21-2" aria-hidden="true" tabindex="-1"></a>fig, axes <span class="op">=</span> joypy.joyplot(df, by<span class="op">=</span><span class="st">"Age"</span>, column<span class="op">=</span><span class="st">"Price_log"</span>,</span>
+<span id="cb21-3"><a href="#cb21-3" aria-hidden="true" tabindex="-1"></a>                            labels<span class="op">=</span>labels, range_style<span class="op">=</span><span class="st">'own'</span>, </span>
+<span id="cb21-4"><a href="#cb21-4" aria-hidden="true" tabindex="-1"></a>                            grid<span class="op">=</span><span class="st">"y"</span>, linewidth<span class="op">=</span><span class="dv">1</span>, legend<span class="op">=</span><span class="va">False</span>, fade<span class="op">=</span><span class="va">True</span>, figsize<span class="op">=</span>(<span class="dv">9</span>,<span class="dv">6</span>),</span>
+<span id="cb21-5"><a href="#cb21-5" aria-hidden="true" tabindex="-1"></a>                            title<span class="op">=</span><span class="st">"Вартість автомобілів по рокам</span><span class="ch">\n</span><span class="st">(ln(Price))"</span>,                            </span>
+<span id="cb21-6"><a href="#cb21-6" aria-hidden="true" tabindex="-1"></a>                            kind<span class="op">=</span><span class="st">"counts"</span>, bins<span class="op">=</span><span class="dv">50</span>)</span></code><button title="Копіювати" class="code-copy-button"><i class="bi"></i></button></pre></div>
 <div class="cell-output cell-output-display">
-<p><img src="eda_files/figure-html/cell-18-output-1.png" width="574" height="478"></p>
+<p><img src="eda_files/figure-html/cell-18-output-1.png" width="862" height="574"></p>
 </div>
 </div>
 
